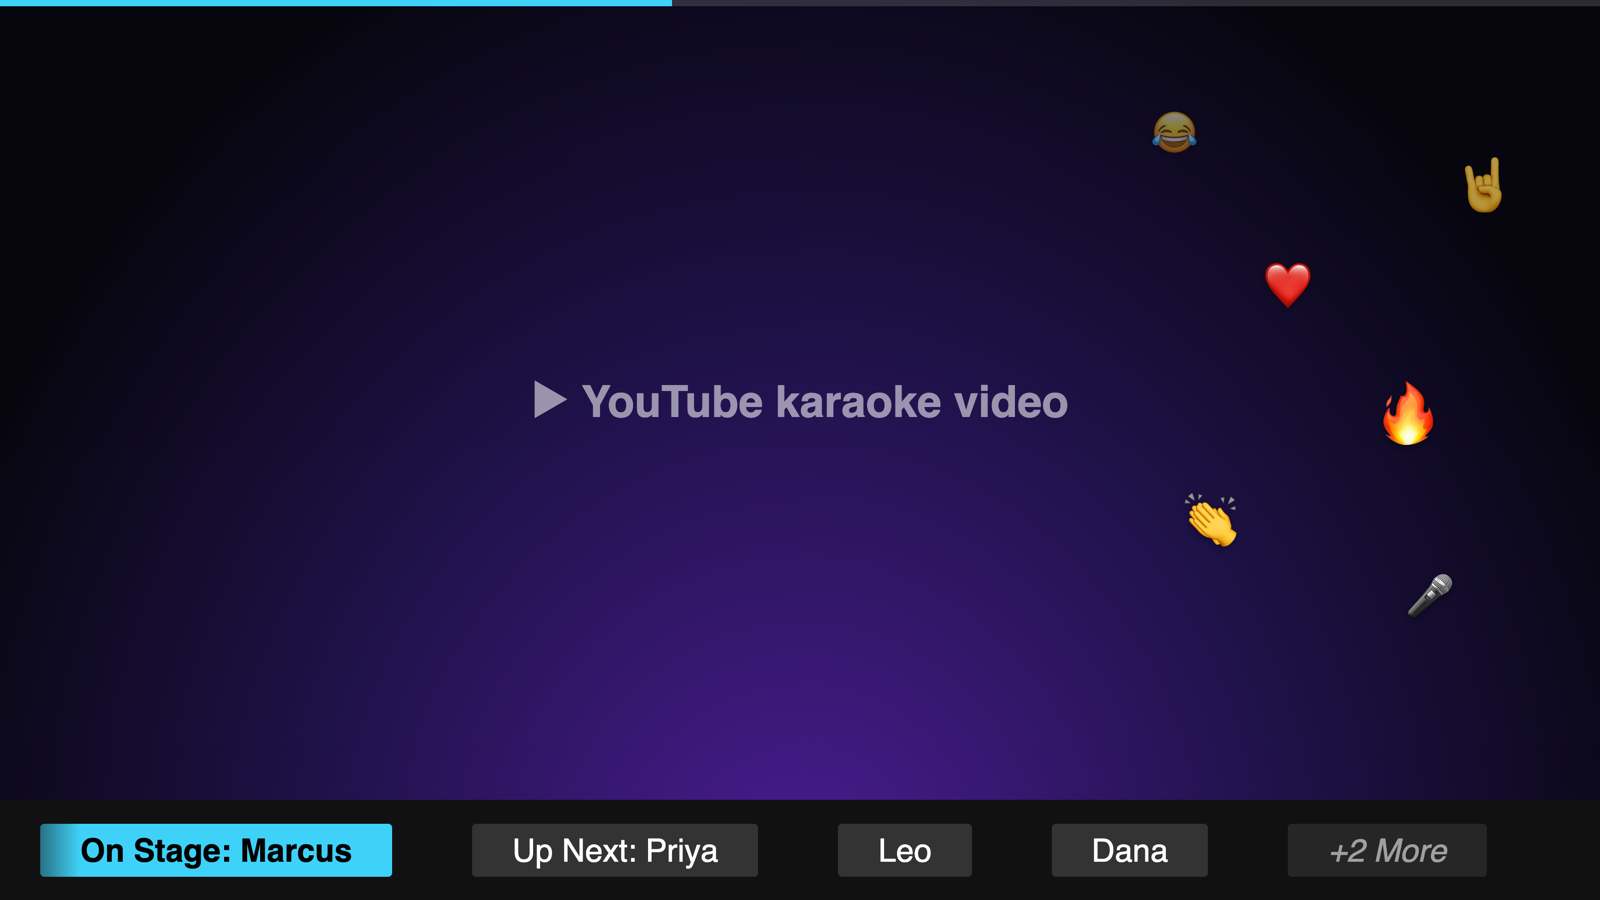
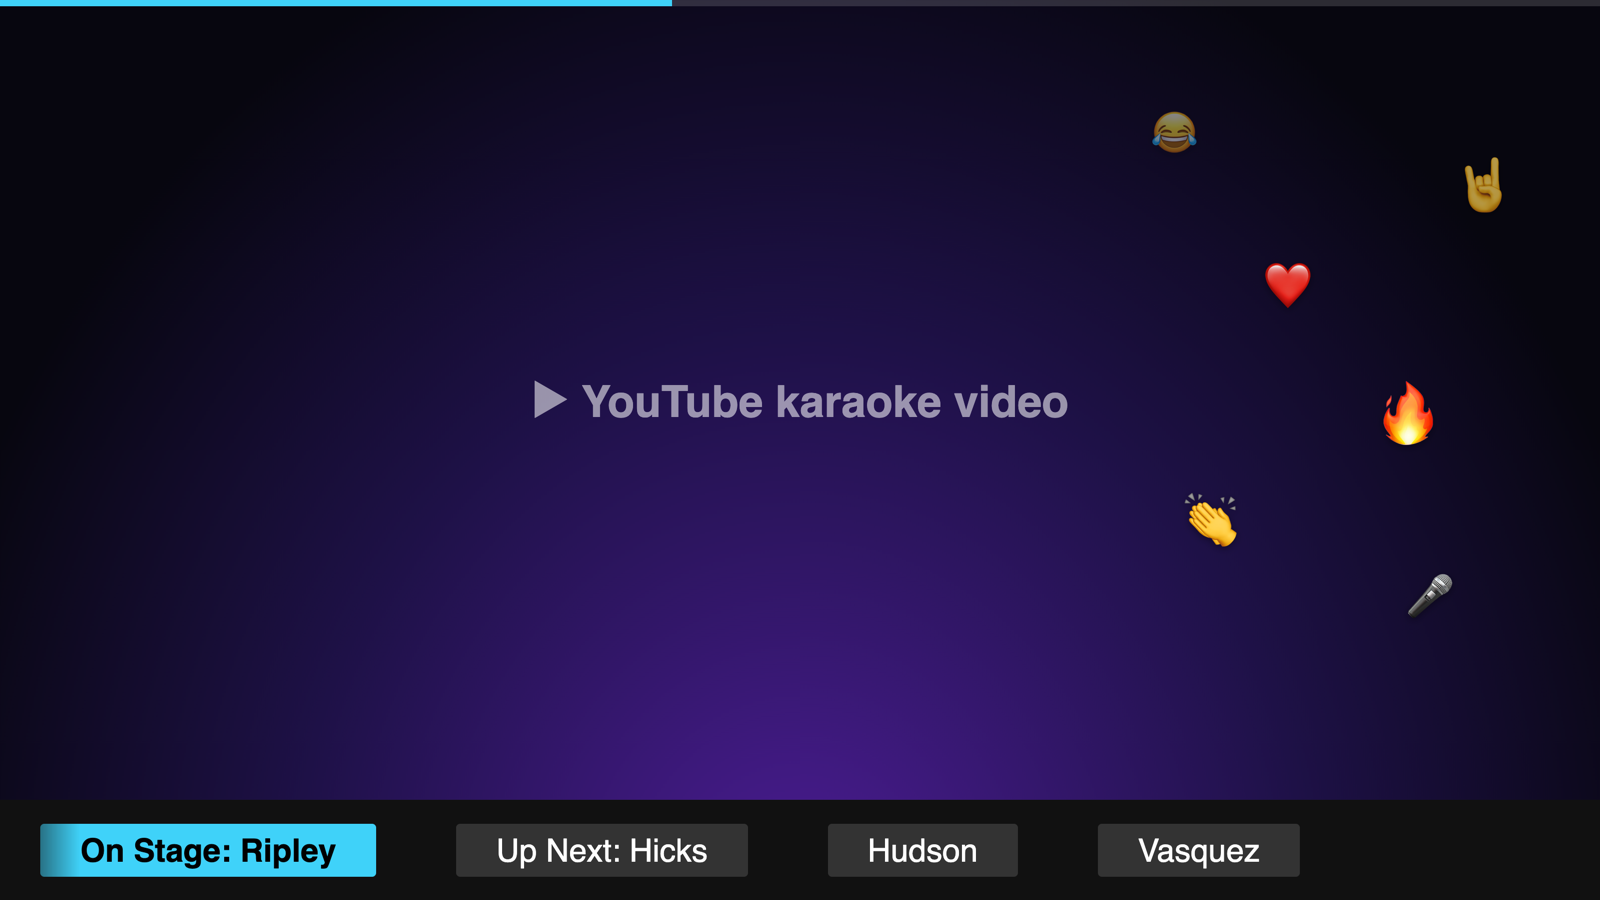
use the built-in fake singers in the overview screenshots

Changed region(s): [[0.2812, 0.9022, 0.9062, 0.9956], [0.1562, 0.9022, 0.25, 0.9956]]

diff --git a/OVERVIEW.md b/OVERVIEW.md
@@ -10,7 +10,7 @@ The plugin has three parts that share one queue per venue:
 | **Queue Manager** | The KJ | WordPress admin → Karaoke → Manage Queue |
 | **Now Playing** block | The room, on a TV or projector | A password-protected page |
 
-> Screenshots use placeholder singers and a made-up venue ("The Rusty Mic").
+> Screenshots use the plugin's built-in fake singers (the same ones the **Load Fake Singers** button adds) and a made-up venue ("The Rusty Mic").
 
 ---
 
